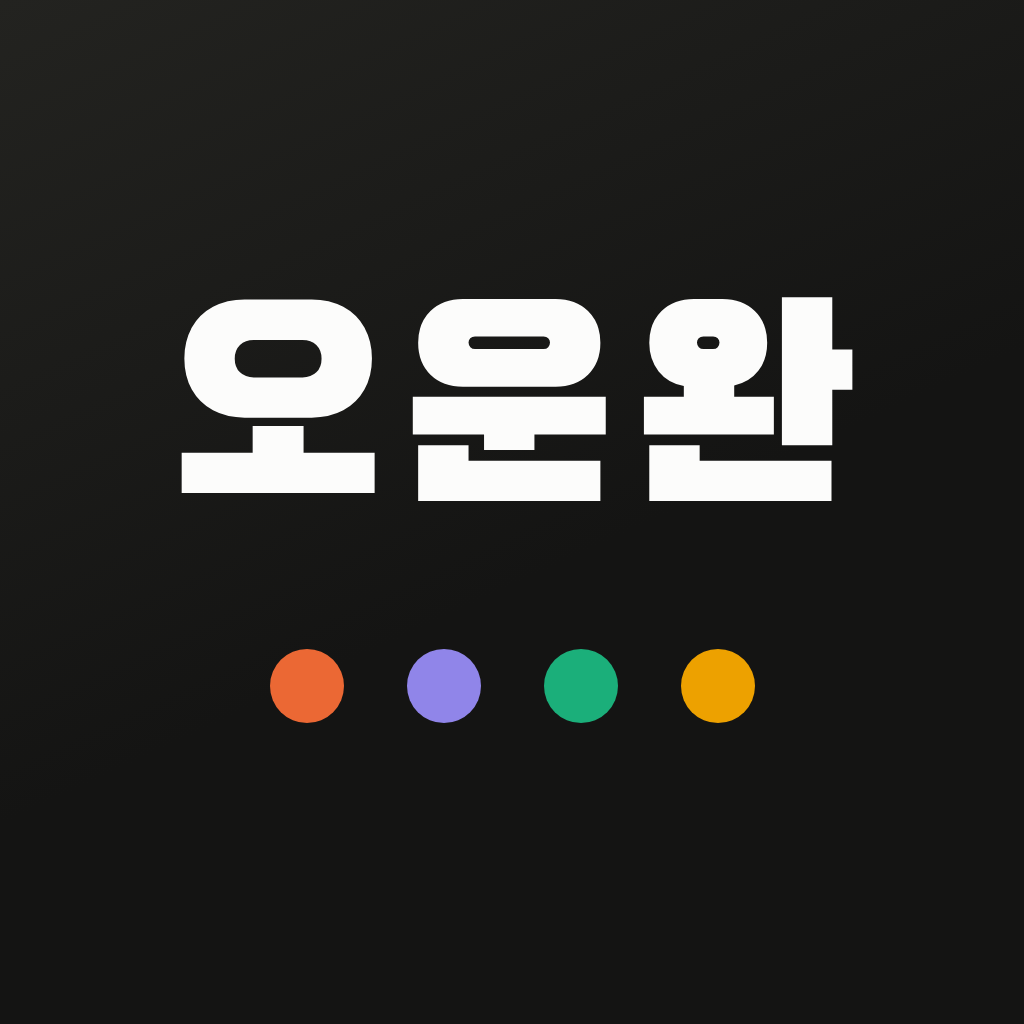
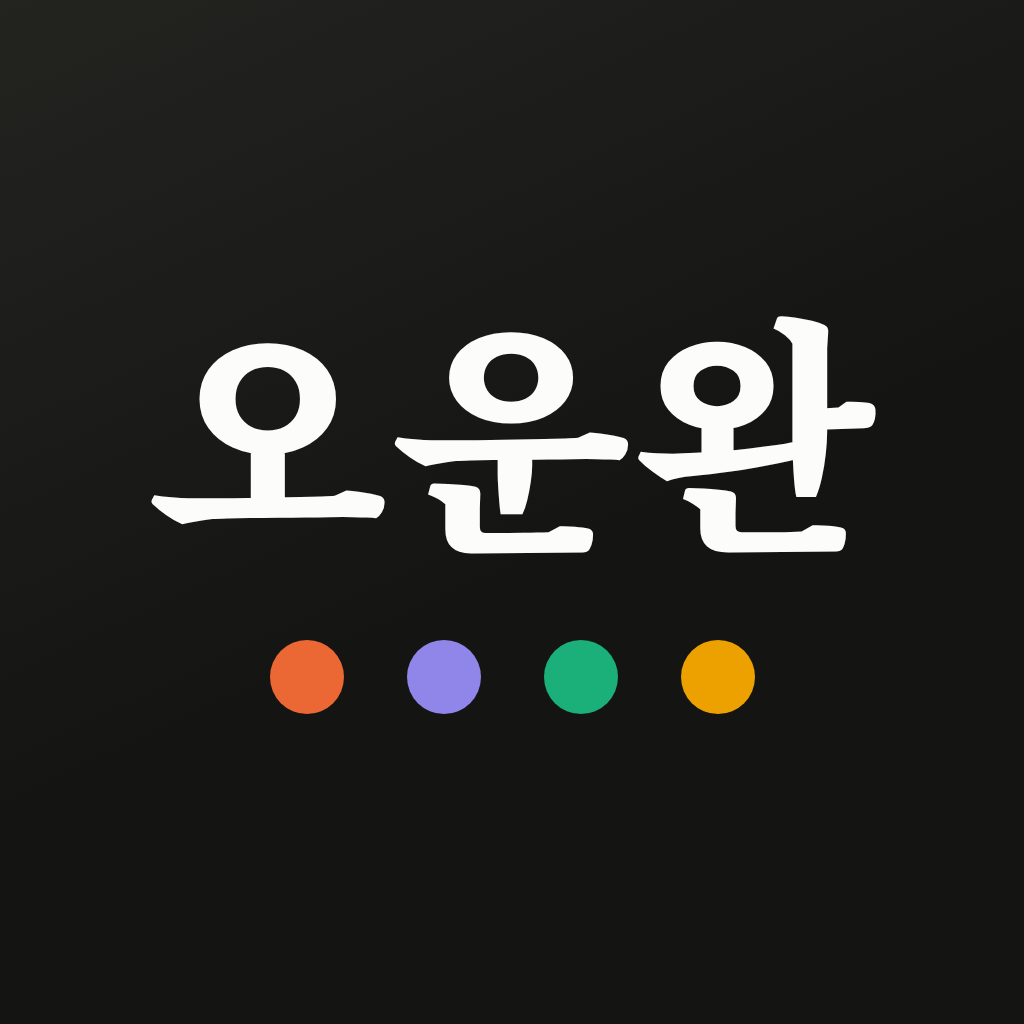
Move W-raise to evening routine (1 set); refine typography
- Morning routine is now push-ups only (출근 전 1분); the 3kg overhead
  W-raise moves to the evening routine at 15 reps x 1 set (keeps its
  m2 record id so past history stays intact)
- Completion/streak/feed logic updated to the new grouping
- Swap display face Black Han Sans -> Noto Serif KR 900 and body
  IBM Plex Sans KR -> Gothic A1; regenerate app icon in the new face

Claude-Session: https://claude.ai/code/session_014QD7cVQt7qUHwSQt2SN4br

diff --git a/fit_tracker/index.html b/fit_tracker/index.html
@@ -1,8 +1,8 @@
 <title>오운완 체크</title>
 <meta name="viewport" content="width=device-width, initial-scale=1, viewport-fit=cover">
 <link rel="preconnect" href="https://fonts.googleapis.com">
-<link rel="stylesheet" href="https://fonts.googleapis.com/css2?family=Black+Han+Sans&family=IBM+Plex+Sans+KR:wght@400;500;700&display=swap">
[1 lines of base64/hex data omitted]
+<link rel="stylesheet" href="https://fonts.googleapis.com/css2?family=Noto+Serif+KR:wght@900&family=Gothic+A1:wght@400;500;700&display=swap">
[1 lines of base64/hex data omitted]
 <meta name="apple-mobile-web-app-title" content="오운완">
 <style>
 /* ---------- 토큰: 라이트(기본) ---------- */
@@ -49,11 +49,11 @@
 *{box-sizing:border-box; margin:0; padding:0}
 body{
   background:var(--bg); color:var(--ink);
-  font-family:"IBM Plex Sans KR",-apple-system,"Apple SD Gothic Neo","Noto Sans KR",sans-serif;
+  font-family:"Gothic A1",-apple-system,"Apple SD Gothic Neo","Noto Sans KR",sans-serif;
   font-size:15px; line-height:1.55;
   -webkit-tap-highlight-color:transparent;
 }
-.disp{font-family:"Black Han Sans","IBM Plex Sans KR",-apple-system,"Apple SD Gothic Neo",sans-serif; font-weight:400; letter-spacing:.01em}
+.disp{font-family:"Noto Serif KR","Apple SD Gothic Neo",serif; font-weight:900; letter-spacing:-.01em}
 .wrap{max-width:600px; margin:0 auto; padding:18px 16px calc(104px + env(safe-area-inset-bottom))}
 button{font:inherit; color:inherit; background:none; border:0; cursor:pointer}
 :focus-visible{outline:2px solid var(--cat-e); outline-offset:2px; border-radius:6px}
@@ -239,13 +239,13 @@ const SRC0 = document.body.innerHTML;
 const CHECK = '<svg viewBox="0 0 16 16" aria-hidden="true"><path d="M2.5 8.5l3.6 3.6L13.5 4.5" fill="none" stroke="currentColor" stroke-width="2.6" stroke-linecap="round" stroke-linejoin="round"/></svg>';
 
 const SECTIONS = [
-  { key:'m', icon:'🌅', title:'아침 루틴', sub:'출근 전 3분 · 자세 정렬 & 펌핑', items:[
+  { key:'m', icon:'🌅', title:'아침 루틴', sub:'출근 전 1분 · 자세 정렬 & 펌핑', items:[
     { id:'m1', name:'정석 푸쉬업', vol:'15회 × 1세트', sub:'가슴 · 앞어깨' },
-    { id:'m2', name:'3kg 오버헤드 W-레이즈', vol:'15회 × 2세트', sub:'뒤어깨 · 등 상부(능형근)' },
   ]},
-  { key:'e', icon:'🌙', title:'저녁 루틴', sub:'퇴근 후 12분 · 8kg 중량 & 프레임 타격', items:[
+  { key:'e', icon:'🌙', title:'저녁 루틴', sub:'퇴근 후 14분 · 8kg 중량 & 프레임 타격', items:[
     { id:'e1', name:'8kg 원암 덤벨 로우 🥇', vol:'각 10~12회 × 3세트', sub:'광배근 · 등' },
     { id:'e2', name:'3kg 사이드 레터럴 레이즈 🥈', vol:'15회 × 2~3세트', sub:'옆어깨' },
+    { id:'m2', name:'3kg 오버헤드 W-레이즈', vol:'15회 × 1세트', sub:'뒤어깨 · 등 상부(능형근)' },
     { id:'e3', name:'8kg 덤벨 이두 컬 🥉', vol:'각 10회 × 2세트', sub:'이두' },
   ]},
   { key:'c', icon:'🏃', title:'슬로우 조깅', sub:'주 2~3회 · 3.0~4.0km · 25~35분', items:[
@@ -257,7 +257,7 @@ const SECTIONS = [
     { id:'n3', name:'저녁 — 닭가슴살 샐러드 + 방울토마토 7개', vol:'', sub:'수면 중 체지방 연소 유도' },
   ]},
 ];
-const STRENGTH = ['m1','m2','e1','e2','e3'];
+const STRENGTH = ['m1','e1','e2','m2','e3'];
 const DIET = ['n1','n2','n3'];
 const ITEM_NAME = {};
 SECTIONS.forEach(s => s.items.forEach(it => ITEM_NAME[it.id] = it.name));
@@ -292,8 +292,8 @@ const day = k => S.days[k] || {};
 function dayDone(k){
   const d = day(k);
   return {
-    m: !!(d.m1 && d.m2), mAny: !!(d.m1 || d.m2),
-    e: !!(d.e1 && d.e2 && d.e3), eAny: !!(d.e1 || d.e2 || d.e3),
+    m: !!d.m1, mAny: !!d.m1,
+    e: !!(d.e1 && d.e2 && d.m2 && d.e3), eAny: !!(d.e1 || d.e2 || d.m2 || d.e3),
     c: !!d.c1,
     n: DIET.every(id => d[id]), nAny: DIET.some(id => d[id]),
     nCnt: DIET.filter(id => d[id]).length,

diff --git a/scripts/fit_ics.py b/scripts/fit_ics.py
@@ -28,9 +28,9 @@ LOG_BLOCK_RE = re.compile(
 # 앱과 동일한 종목 정의 (체크 필드, 표시 이름)
 ITEMS = [
     ("m1", "아침 — 정석 푸쉬업 15회×1세트"),
-    ("m2", "아침 — 3kg 오버헤드 W-레이즈 15회×2세트"),
     ("e1", "저녁 — 8kg 원암 덤벨 로우 각 10~12회×3세트"),
     ("e2", "저녁 — 3kg 사이드 레터럴 레이즈 15회×2~3세트"),
+    ("m2", "저녁 — 3kg 오버헤드 W-레이즈 15회×1세트"),
     ("e3", "저녁 — 8kg 덤벨 이두 컬 각 10회×2세트"),
     ("c1", "슬로우 조깅 (Zone 2)"),
     ("n1", "식단 — 아침 (자연식)"),
@@ -89,9 +89,9 @@ def clean_day(raw: object) -> dict | None:
 
 def summary(d: dict) -> str:
     parts: list[str] = []
-    if d.get("m1") and d.get("m2"):
+    if d.get("m1"):
         parts.append("아침")
-    if d.get("e1") and d.get("e2") and d.get("e3"):
+    if d.get("e1") and d.get("e2") and d.get("m2") and d.get("e3"):
         parts.append("저녁")
     if d.get("c1"):
         km = d.get("km") or 0
